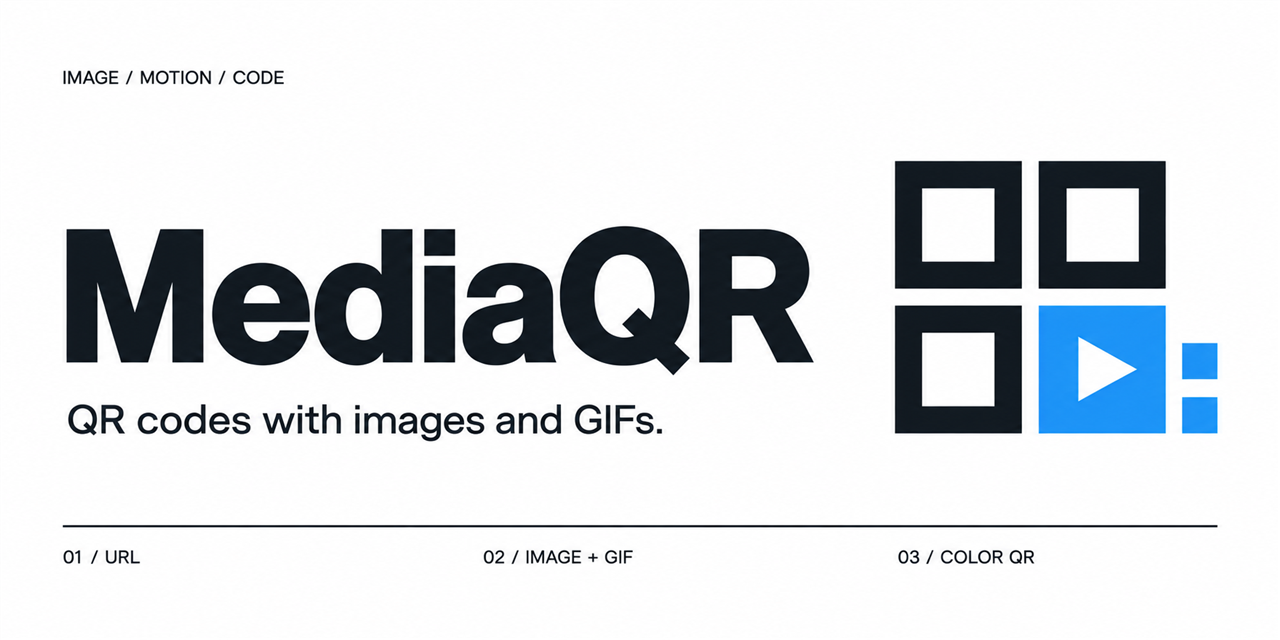
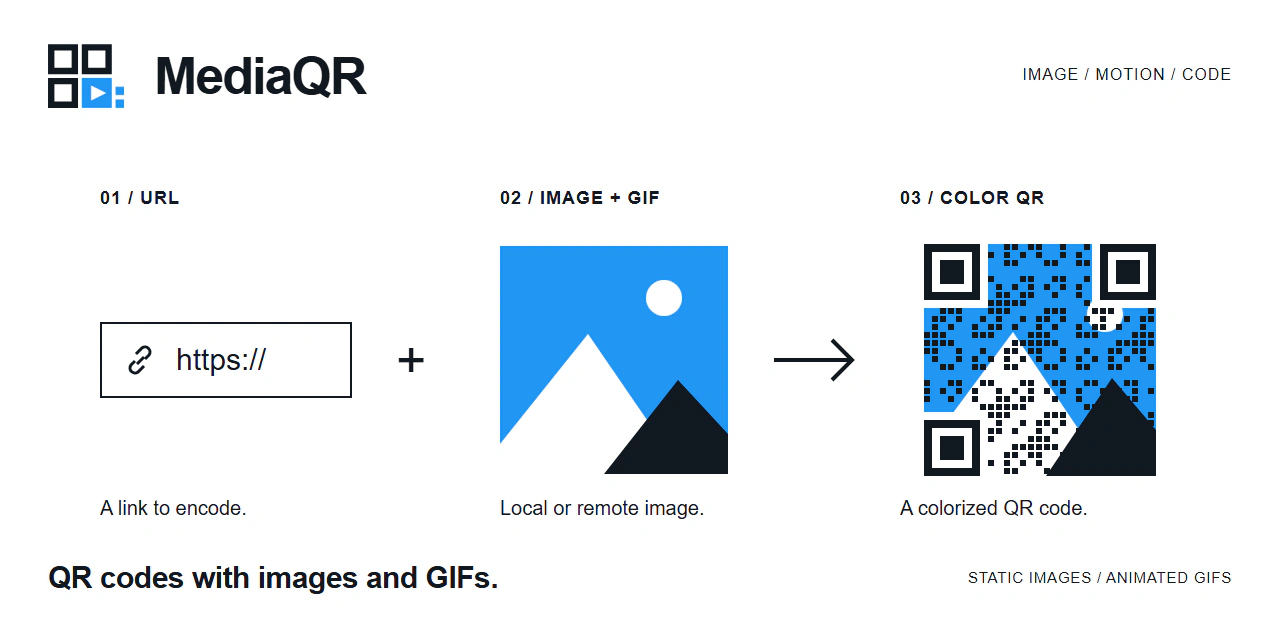
Modify: Refresh README content and project visuals
- Remove the repository structure section from the README.
- Replace the README banner and GUI favicon.

diff --git a/README.md b/README.md
@@ -71,22 +71,6 @@ The browser interface calls the exposed Python function `buildQRcode()` through 
 
 The image is then passed to `myqr.run()` with color output enabled and the QR version fixed at `20`. The generated file uses the name entered in the interface. Static output is displayed with OpenCV, while animated GIF output is opened with its default Windows app.
 
-## Repository structure
-
-```text
-MediaQR/
-├── gui/
-│   ├── css/
-│   │   └── style.css
-│   ├── images/
-│   │   └── logo.svg
-│   ├── js/
-│   │   └── func.js
-│   └── index.html
-├── build.py
-└── requirements.txt
-```
-
 ## Known limitations
 
 - Inputs are passed to Python without explicit validation or visible error reporting.
